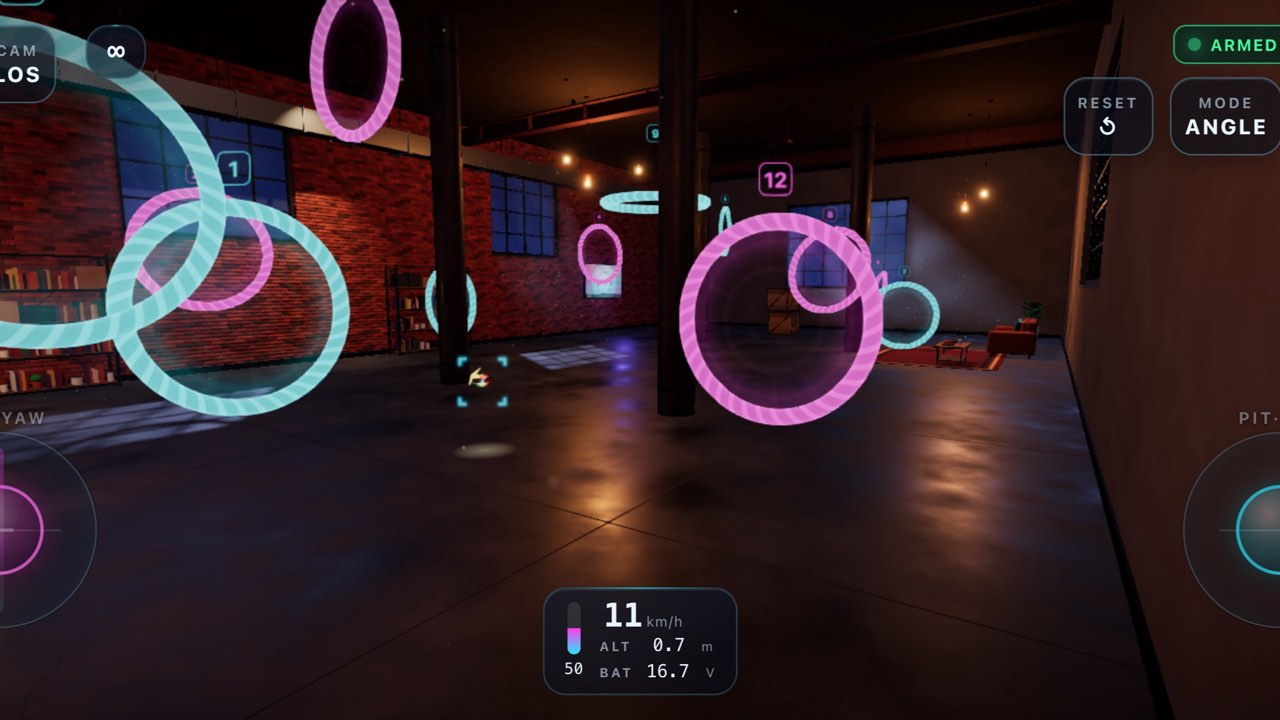
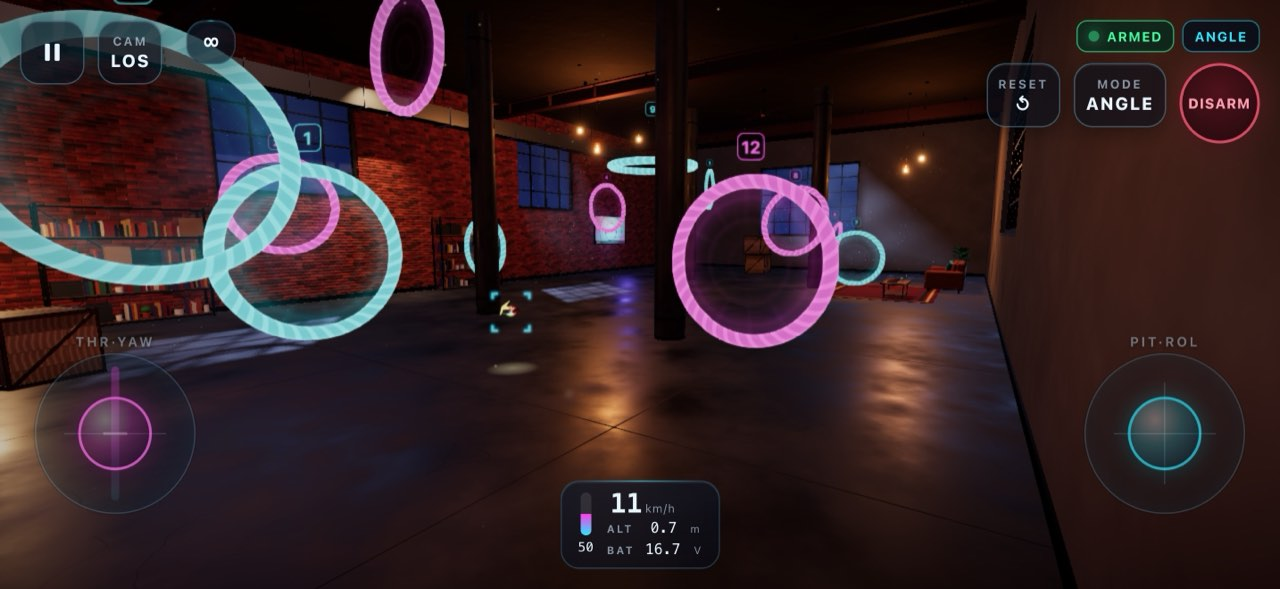
fix(web): store gate styles collided with the touch tap gate; hero shows the full frame
The Quest store gate used .ds-gate*, the class of the game's touch tap gate in
mobile.css (loaded on /app/ too): its title picked up 0.2em letter-spacing and
a glow. Renamed to .ds-store-gate*; site.spec checks the title's computed style.

Landing page, after looking at 1920 / 2560 / 1280 / iPhone SE / iPad / Pixel 7:
the hero image keeps the phone screenshot's full frame (the 16:9 crop cut the
HUD chips), the hero copy column is wider so the store badges stay on one row,
and badges shrink to their content on phones.

diff --git a/src/ui/store-gate.ts b/src/ui/store-gate.ts
@@ -11,15 +11,15 @@ import { storeLink } from '../site/stores';
 export function showStoreGate(doc: Document): HTMLElement {
   const quest = storeLink('quest');
   const el = doc.createElement('main');
-  el.className = 'ds-site ds-gate';
-  el.setAttribute('aria-labelledby', 'ds-gate-title');
+  el.className = 'ds-site ds-store-gate';
+  el.setAttribute('aria-labelledby', 'ds-store-gate-title');
   el.innerHTML = `
-    <div class="ds-gate__card">
-      <p class="ds-gate__logo" aria-hidden="true">DRONE SIM</p>
-      <h1 class="ds-gate__title" id="ds-gate-title">Drone Sim VR is available on the Meta&nbsp;Horizon&nbsp;Store</h1>
-      <p class="ds-gate__text">This page is the Quest app. Install it from the store to fly in VR, or play the free flat-screen version in your browser.</p>
-      <div class="ds-gate__actions">
-        <a class="ds-gate__play" href="../play/" data-gate="play">Play free on the web</a>
+    <div class="ds-store-gate__card">
+      <p class="ds-store-gate__logo" aria-hidden="true">DRONE SIM</p>
+      <h1 class="ds-store-gate__title" id="ds-store-gate-title">Drone Sim VR is available on the Meta&nbsp;Horizon&nbsp;Store</h1>
+      <p class="ds-store-gate__text">This page is the Quest app. Install it from the store to fly in VR, or play the free flat-screen version in your browser.</p>
+      <div class="ds-store-gate__actions">
+        <a class="ds-store-gate__play" href="../play/" data-gate="play">Play free on the web</a>
         ${storeBadgeHtml(quest)}
       </div>
     </div>`;

diff --git a/src/ui/store-gate.css b/src/ui/store-gate.css
@@ -1,4 +1,4 @@
-.ds-gate {
+.ds-store-gate {
   position: fixed;
   inset: 0;
   z-index: 200;
@@ -16,7 +16,7 @@
   user-select: text;
 }
 
-.ds-gate__card {
+.ds-store-gate__card {
   width: min(100%, 40rem);
   display: grid;
   justify-items: center;
@@ -24,7 +24,7 @@
   text-align: center;
 }
 
-.ds-gate__logo {
+.ds-store-gate__logo {
   margin: 0;
   font-size: clamp(2.2rem, 7vw, 4.2rem);
   font-weight: 900;
@@ -34,14 +34,14 @@
   text-shadow: 0 0 10px rgba(40, 231, 255, 0.9), 0 0 40px rgba(40, 231, 255, 0.5);
 }
 
-.ds-gate__title {
+.ds-store-gate__title {
   margin: 0.4rem 0 0;
   font-size: clamp(1.25rem, 3vw, 1.75rem);
   font-weight: 700;
   line-height: 1.25;
 }
 
-.ds-gate__text {
+.ds-store-gate__text {
   margin: 0;
   max-width: 34rem;
   color: var(--ds-muted);
@@ -49,7 +49,7 @@
   line-height: 1.5;
 }
 
-.ds-gate__actions {
+.ds-store-gate__actions {
   display: flex;
   flex-wrap: wrap;
   justify-content: center;
@@ -58,7 +58,7 @@
   margin-top: 0.6rem;
 }
 
-.ds-gate__play {
+.ds-store-gate__play {
   display: inline-flex;
   align-items: center;
   min-height: 48px;
@@ -71,7 +71,7 @@
   text-decoration: none;
 }
 
-.ds-gate__play:focus-visible {
+.ds-store-gate__play:focus-visible {
   outline: 2px solid var(--ds-text);
   outline-offset: 3px;
 }

diff --git a/tests/e2e/site.spec.ts b/tests/e2e/site.spec.ts
@@ -127,7 +127,11 @@ test.describe('/app/: Meta Quest store app', () => {
     await expect(page.getByRole('heading', { level: 1, name: GATE_TITLE })).toBeVisible({ timeout: 20_000 });
     await expect(page.locator('#splash')).toBeHidden();
     expect(await page.evaluate(() => !!(window as unknown as W).__drone)).toBe(false);
-    await expect(page.locator('.ds-gate .st-badge--quest')).toContainText('Coming soon');
+    await expect(page.locator('.ds-store-gate .st-badge--quest')).toContainText('Coming soon');
+    // its own styles only: the game's touch tap gate (mobile.css) must not leak in
+    const title = page.getByRole('heading', { level: 1, name: GATE_TITLE });
+    expect(await title.evaluate((el) => getComputedStyle(el).letterSpacing)).toBe('normal');
+    expect(await title.evaluate((el) => getComputedStyle(el).textShadow)).toBe('none');
     const play = page.getByRole('link', { name: 'Play free on the web' });
     await expect(play).toBeFocused();
     await play.click();

diff --git a/src/landing/landing.css b/src/landing/landing.css
@@ -255,7 +255,7 @@ body.ld {
   overflow: hidden;
   border: 1px solid var(--ds-edge);
   box-shadow: 0 30px 80px rgba(0, 0, 0, 0.55), 0 0 0 1px rgba(40, 231, 255, 0.08), 0 0 60px rgba(40, 231, 255, 0.12);
-  aspect-ratio: 16 / 9;
+  aspect-ratio: 2868 / 1320;
   background: #0b1220;
 }
 
@@ -267,7 +267,7 @@ body.ld {
 
 @media (min-width: 960px) {
   .ld-hero__grid {
-    grid-template-columns: minmax(0, 0.8fr) minmax(0, 1.2fr);
+    grid-template-columns: minmax(0, 0.9fr) minmax(0, 1.1fr);
     gap: clamp(2.5rem, 5vw, 5rem);
   }
 }
@@ -329,6 +329,8 @@ body.ld {
   stroke-width: 1.6;
   stroke-linecap: round;
   stroke-linejoin: round;
+  width: 2rem;
+  height: 2rem;
 }
 
 .ld-feature:nth-child(even) .ld-feature__icon {
@@ -435,6 +437,9 @@ body.ld {
 @media (max-width: 520px) {
   .ld-nav a:not(.ld-nav__play) {
     display: none;
+  }
+  .st-badge {
+    min-width: 0;
   }
   .ld-btn {
     width: 100%;

diff --git a/tests/e2e/offline.spec.ts b/tests/e2e/offline.spec.ts
@@ -42,7 +42,7 @@ test('the Quest app launches offline after one successful store check (cached ow
   await context.setOffline(true);
   await page.reload();
   await page.waitForFunction(() => !!(window as unknown as W).__drone, null, { timeout: 20_000 });
-  await expect(page.locator('.ds-gate')).toHaveCount(0);
+  await expect(page.locator('.ds-store-gate')).toHaveCount(0);
   expect(errors).toEqual([]);
   await context.setOffline(false);
 });

diff --git a/index.html b/index.html
@@ -65,7 +65,7 @@
               srcset="/screenshots/los-800.jpg 800w, /screenshots/los-1280.jpg 1280w"
               sizes="(min-width: 960px) 56vw, 100vw"
               width="1280"
-              height="720"
+              height="589"
               alt="Line-of-sight view: the quad flies between glowing cyan and magenta race rings in a brick loft, touch sticks on screen"
               fetchpriority="high"
               decoding="async"

diff --git a/src/site/badge.css b/src/site/badge.css
@@ -10,8 +10,8 @@
   align-items: center;
   gap: 10px;
   min-height: 48px;
-  min-width: 164px;
-  padding: 7px 16px 7px 12px;
+  min-width: 150px;
+  padding: 7px 14px 7px 12px;
   border: 1px solid rgba(234, 246, 255, 0.28);
   border-radius: 10px;
   background: #000;
